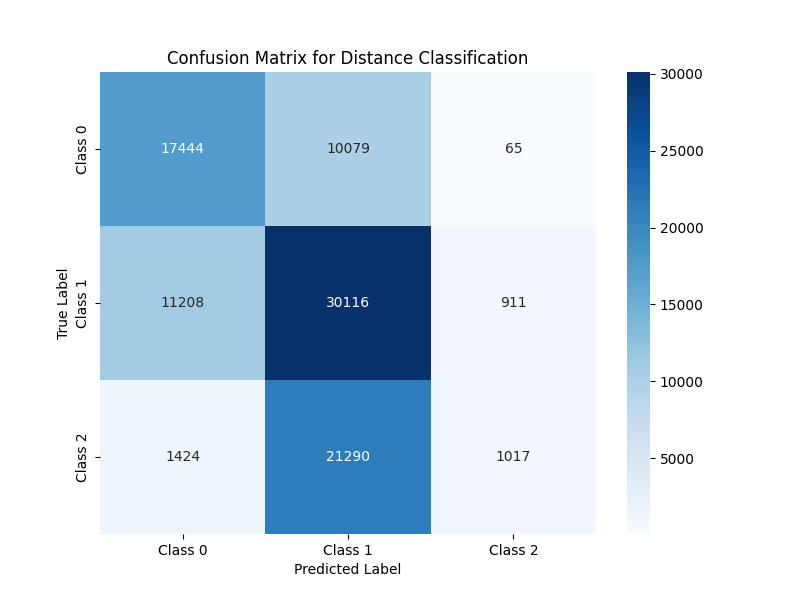
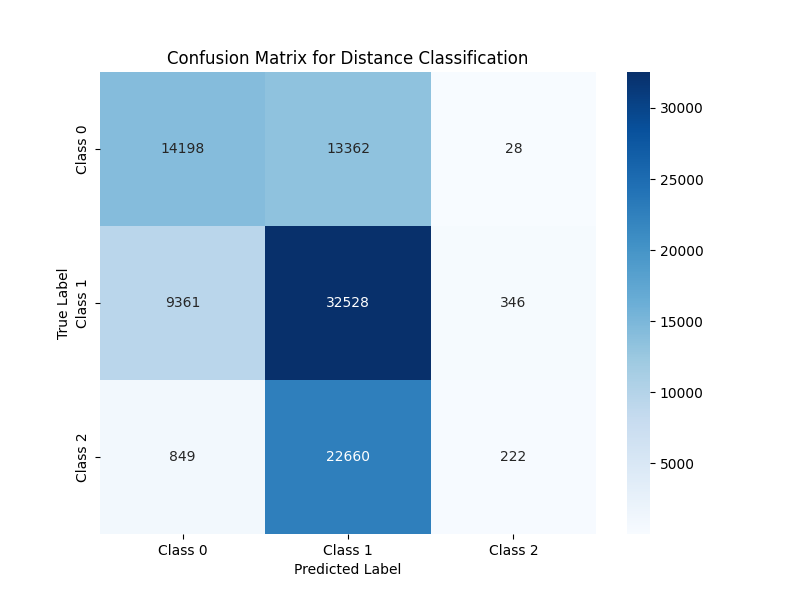
API backend connect with model for prediction

diff --git a/test_api.py b/test_api.py
@@ -1,0 +1,14 @@
+import requests
+import os
+
+local_url = "http://127.0.0.1:8000"
+audio_file_path = "dcase/zenodo_upload/mic_data/fold1_room1_mix001.wav" # multi-channel WAV file on your machine
+
+# It's crucial that the WAV file has at least 4 channels to generate all 7 features for the model.
+# If you only have mono audio, you would need to duplicate channels before sending or modify preprocess_audio_for_inference.
+
+with open(audio_file_path, "rb") as f:
+    files = {'audio_file': (os.path.basename(audio_file_path), f, 'audio/wav')}
+    response = requests.post(f"{local_url}/predict", files=files)
+
+print(response.json())